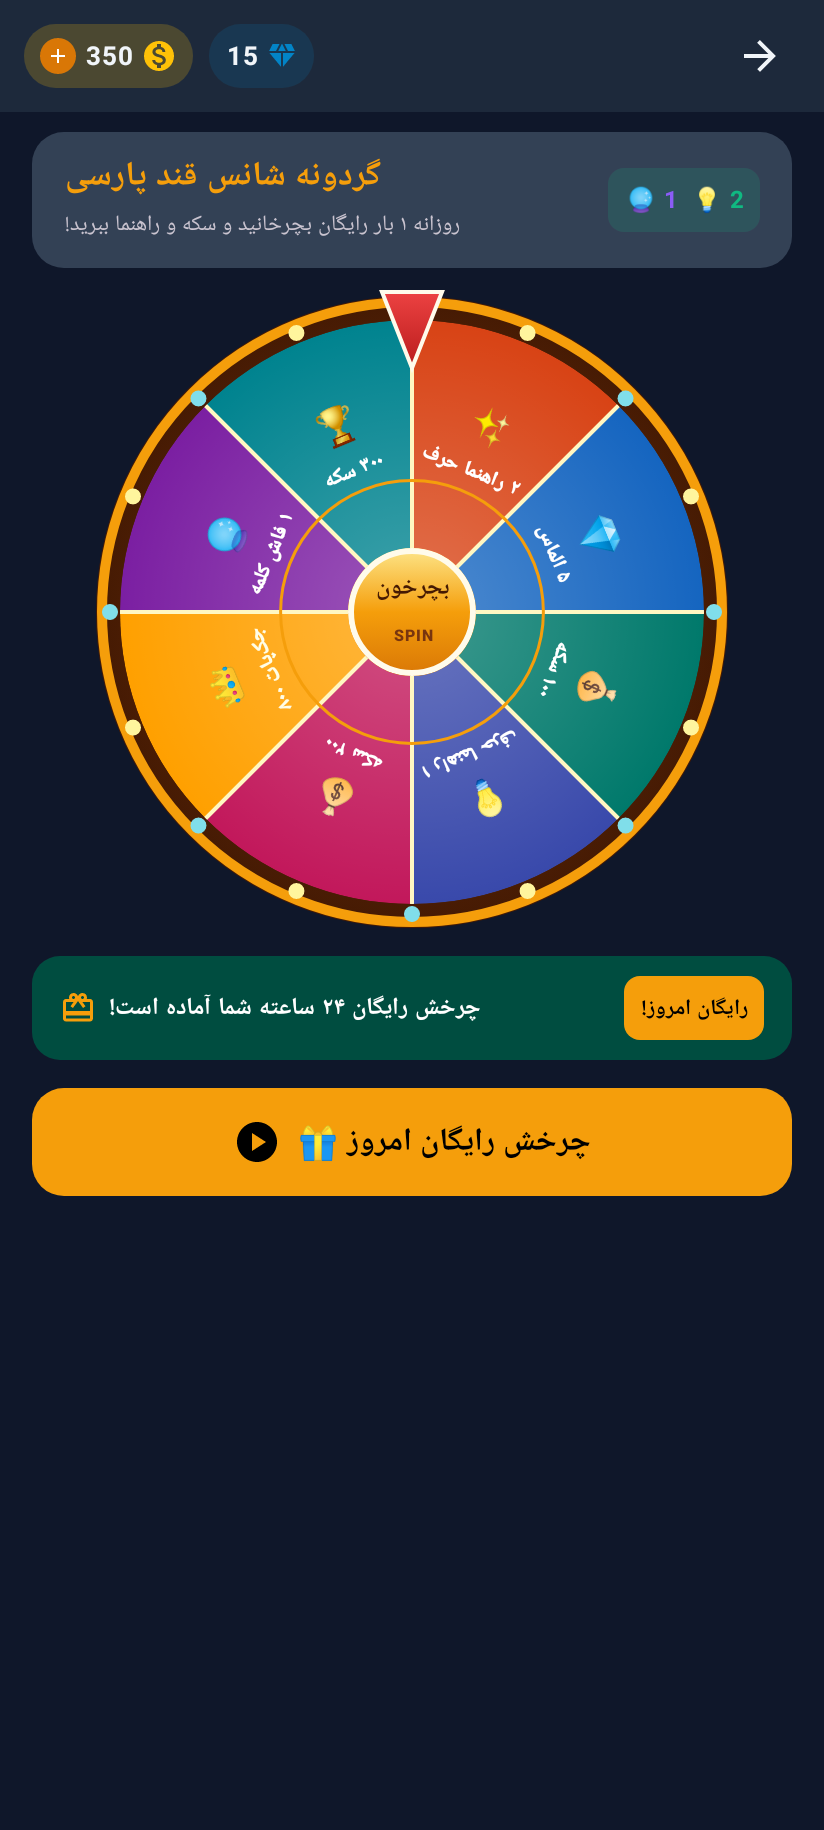
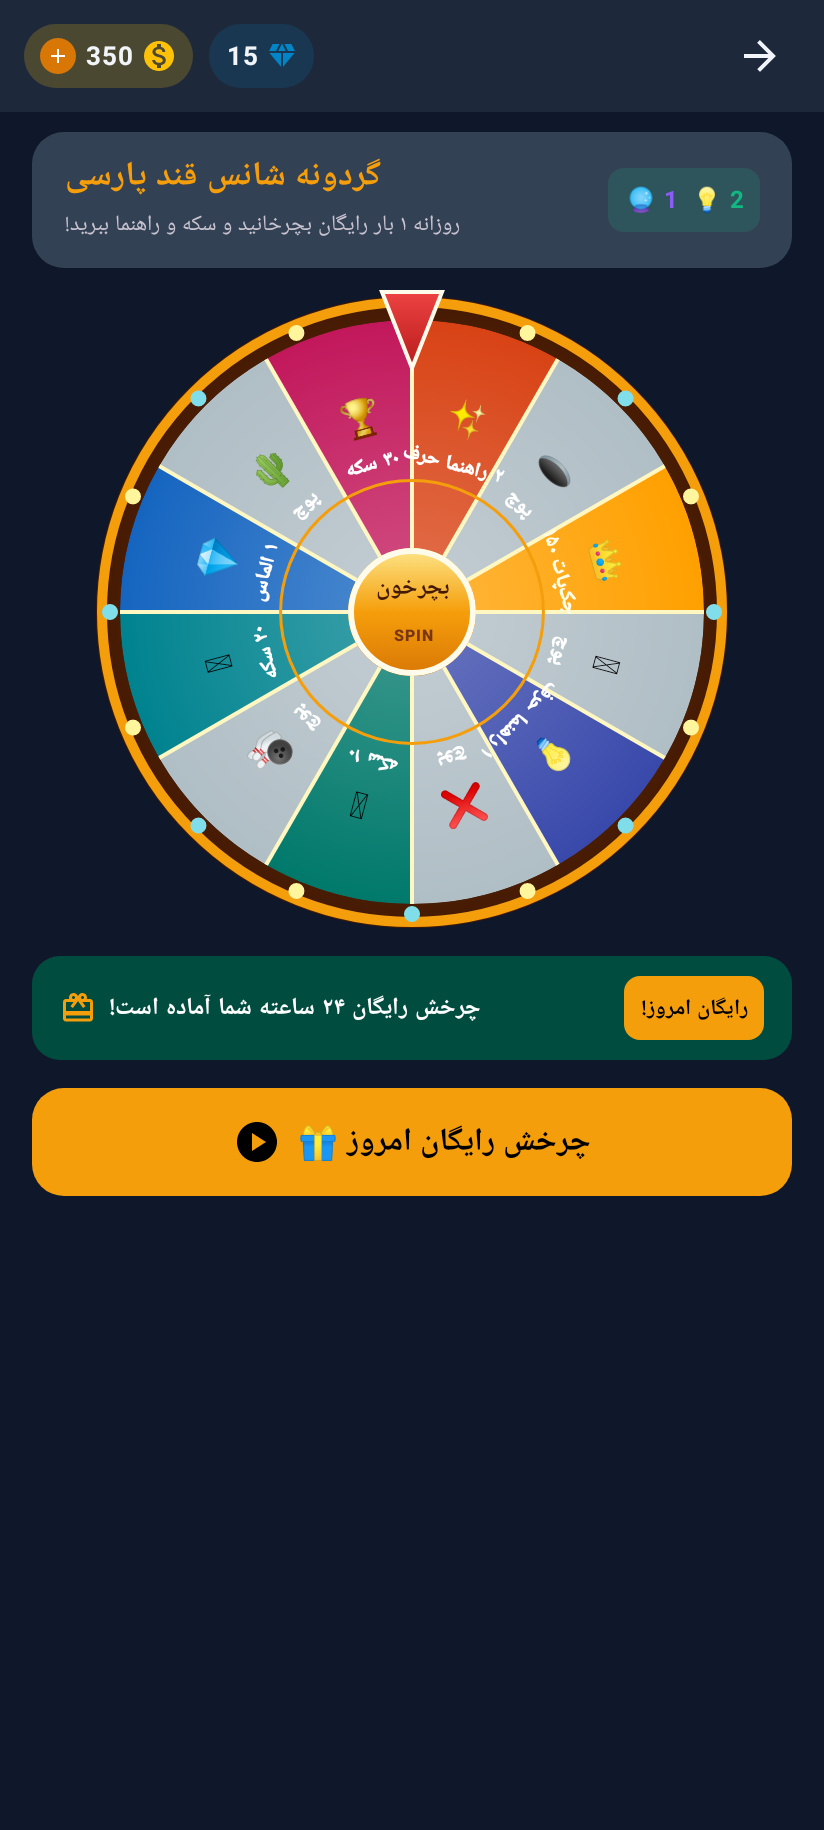
گردونه

Changed region(s): [[0.1214, 0.1557, 0.8799, 0.4984]]

diff --git a/app/src/main/java/com/aistudio/qandparsi/ui/screens/FortuneWheelScreen.kt b/app/src/main/java/com/aistudio/qandparsi/ui/screens/FortuneWheelScreen.kt
@@ -508,52 +508,31 @@ fun FortuneWheelScreen(
                         }
                     }
                 } else {
-                    // Secondary Spin with 50 Coins Button
+                    // After the daily free spin is used, watching a rewarded ad is the main way
+                    // to earn another spin (the unlimited coin-spin has been removed).
                     Button(
-                        onClick = onSpinWheel,
+                        onClick = onWatchAdForFreeSpin,
                         enabled = !isSpinning,
                         modifier = Modifier
                             .fillMaxWidth()
-                            .height(52.dp)
-                            .testTag("spin_wheel_button"),
+                            .height(54.dp)
+                            .testTag("free_spin_ad_btn"),
                         shape = RoundedCornerShape(16.dp),
                         colors = ButtonDefaults.buttonColors(containerColor = PersianTealPrimary)
                     ) {
                         Row(verticalAlignment = Alignment.CenterVertically) {
                             Text(
-                                text = if (isSpinning) "در حال چرخش..." else "چرخش مجدد (۵۰ سکه 🪙)",
+                                text = if (isSpinning) "در حال چرخش گردونه..." else "تماشای ویدیو برای چرخش رایگان 📺",
                                 fontSize = 15.sp,
-                                fontWeight = FontWeight.Bold,
+                                fontWeight = FontWeight.ExtraBold,
                                 color = Color.White
                             )
                             Spacer(modifier = Modifier.width(8.dp))
-                            Icon(imageVector = Icons.Default.PlayCircle, contentDescription = null, tint = Color.White)
+                            Icon(imageVector = Icons.Default.Videocam, contentDescription = null, tint = Color.White)
                         }
                     }
 
-                    // Watch Video for Free Extra Spin Button
-                    OutlinedButton(
-                        onClick = onWatchAdForFreeSpin,
-                        enabled = !isSpinning,
-                        modifier = Modifier
-                            .fillMaxWidth()
-                            .height(48.dp)
-                            .testTag("free_spin_ad_btn"),
-                        shape = RoundedCornerShape(16.dp)
-                    ) {
-                        Row(verticalAlignment = Alignment.CenterVertically) {
-                            Text(
-                                text = "تماشای ویدیو بازار برای چرخش رایگان",
-                                fontSize = 13.sp,
-                                fontWeight = FontWeight.Bold,
-                                color = MaterialTheme.colorScheme.onSurface
-                            )
-                            Spacer(modifier = Modifier.width(6.dp))
-                            Icon(imageVector = Icons.Default.Videocam, contentDescription = null, tint = Color(0xFF00A651))
-                        }
-                    }
-
-                    // Paid extra spin with the premium currency (gems)
+                    // Premium extra spin with the premium currency (gems) — no ad required.
                     OutlinedButton(
                         onClick = onGemSpin,
                         enabled = !isSpinning,
@@ -574,6 +553,14 @@ fun FortuneWheelScreen(
                             Text(text = "💎", fontSize = 14.sp)
                         }
                     }
+
+                    Text(
+                        text = "چرخش روزانه محدود است؛ پس از مصرف آن، فقط با تماشای ویدیو یا الماس میتوانید دوباره بچرخید.",
+                        fontSize = 11.sp,
+                        color = MaterialTheme.colorScheme.onSurfaceVariant,
+                        textAlign = TextAlign.Center,
+                        modifier = Modifier.padding(horizontal = 12.dp)
+                    )
                 }
             }
 
@@ -598,10 +585,24 @@ fun FortuneWheelScreen(
                             .padding(24.dp),
                         horizontalAlignment = Alignment.CenterHorizontally
                     ) {
-                        Text(text = if (lastWonReward.isJackpot) "🎰👑💎" else "${lastWonReward.iconEmoji}🎉✨", fontSize = 44.sp)
+                        val emptyWin = lastWonReward.coins == 0 && lastWonReward.gems == 0 &&
+                            lastWonReward.freeLetterHints == 0 && lastWonReward.freeWordHints == 0
+
+                        Text(
+                            text = when {
+                                lastWonReward.isJackpot -> "🎰👑💎"
+                                emptyWin -> "🫥🕳"
+                                else -> "${lastWonReward.iconEmoji}🎉✨"
+                            },
+                            fontSize = 44.sp
+                        )
                         Spacer(modifier = Modifier.height(10.dp))
                         Text(
-                            text = if (lastWonReward.isJackpot) "جکپات طلایی برنده شدید!" else "تبریک! جایزه شما:",
+                            text = when {
+                                lastWonReward.isJackpot -> "جکپات طلایی برنده شدید!"
+                                emptyWin -> "متأسفانه این بار پوچ بود"
+                                else -> "تبریک! جایزه شما:"
+                            },
                             fontSize = 18.sp,
                             fontWeight = FontWeight.ExtraBold,
                             color = GoldSecondary,
@@ -612,7 +613,8 @@ fun FortuneWheelScreen(
                             text = lastWonReward.labelFa,
                             fontSize = 24.sp,
                             fontWeight = FontWeight.Black,
-                            color = MaterialTheme.colorScheme.onSurface,
+                            color = if (emptyWin) MaterialTheme.colorScheme.onSurfaceVariant
+                            else MaterialTheme.colorScheme.onSurface,
                             textAlign = TextAlign.Center
                         )
 

diff --git a/app/src/main/java/com/aistudio/qandparsi/data/repository/GameRepository.kt b/app/src/main/java/com/aistudio/qandparsi/data/repository/GameRepository.kt
@@ -432,15 +432,17 @@ object GameRepository {
         )
     )
 
-    // 8-Segment Lucky Spin Wheel Rewards (گردونه شانس با جوایز سکه و راهنماهای کاربردی)
+    // 12-Segment Lucky Spin Wheel Rewards. The wheel is intentionally weighted: empty
+    // ("پوچ") and small outcomes dominate, while coins and gems are rare. A normal spin is
+    // only available as the once-per-day free spin or after watching an ad / spending gems.
     val wheelRewards: List<WheelReward> = listOf(
         WheelReward(
             id = 1,
-            labelFa = "۱۰۰ سکه",
-            coins = 100,
-            gems = 0,
-            colorHex = 0xFF00796B,
-            iconEmoji = "💰"
+            labelFa = "پوچ",
+            coins = 0,
+            colorHex = 0xFFB0BEC5,
+            iconEmoji = "🫥",
+            weight = 10
         ),
         WheelReward(
             id = 2,
@@ -449,59 +451,92 @@ object GameRepository {
             gems = 0,
             freeLetterHints = 1,
             colorHex = 0xFF3949AB,
-            iconEmoji = "💡"
+            iconEmoji = "💡",
+            weight = 4
         ),
         WheelReward(
             id = 3,
-            labelFa = "۲۰۰ سکه",
-            coins = 200,
-            gems = 1,
-            colorHex = 0xFFC2185B,
-            iconEmoji = "💰"
+            labelFa = "پوچ",
+            coins = 0,
+            colorHex = 0xFFB0BEC5,
+            iconEmoji = "❌",
+            weight = 10
         ),
         WheelReward(
             id = 4,
-            labelFa = "جکپات ۸۰۰",
-            coins = 800,
-            gems = 5,
-            freeLetterHints = 2,
-            colorHex = 0xFFFFA000,
-            iconEmoji = "👑",
-            isJackpot = true
+            labelFa = "۱۰ سکه",
+            coins = 10,
+            colorHex = 0xFF00796B,
+            iconEmoji = "🪙",
+            weight = 5
         ),
         WheelReward(
             id = 5,
-            labelFa = "۱ فاش کلمه",
+            labelFa = "پوچ",
             coins = 0,
-            gems = 1,
-            freeWordHints = 1,
-            colorHex = 0xFF7B1FA2,
-            iconEmoji = "🔮"
+            colorHex = 0xFFB0BEC5,
+            iconEmoji = "🎳",
+            weight = 10
         ),
         WheelReward(
             id = 6,
-            labelFa = "۳۰۰ سکه",
-            coins = 300,
-            gems = 0,
+            labelFa = "۲۰ سکه",
+            coins = 20,
             colorHex = 0xFF00838F,
-            iconEmoji = "🏆"
+            iconEmoji = "🪙",
+            weight = 4
         ),
         WheelReward(
             id = 7,
-            labelFa = "۲ راهنما حرف",
-            coins = 50,
-            gems = 0,
-            freeLetterHints = 2,
-            colorHex = 0xFFD84315,
-            iconEmoji = "✨"
+            labelFa = "۱ الماس",
+            coins = 0,
+            gems = 1,
+            colorHex = 0xFF1565C0,
+            iconEmoji = "💎",
+            weight = 2
         ),
         WheelReward(
             id = 8,
-            labelFa = "۵ الماس",
+            labelFa = "پوچ",
+            coins = 0,
+            colorHex = 0xFFB0BEC5,
+            iconEmoji = "🌵",
+            weight = 10
+        ),
+        WheelReward(
+            id = 9,
+            labelFa = "۳۰ سکه",
+            coins = 30,
+            colorHex = 0xFFC2185B,
+            iconEmoji = "🏆",
+            weight = 3
+        ),
+        WheelReward(
+            id = 10,
+            labelFa = "۲ راهنما حرف",
+            coins = 0,
+            freeLetterHints = 2,
+            colorHex = 0xFFD84315,
+            iconEmoji = "✨",
+            weight = 2
+        ),
+        WheelReward(
+            id = 11,
+            labelFa = "پوچ",
+            coins = 0,
+            colorHex = 0xFFB0BEC5,
+            iconEmoji = "🕳",
+            weight = 10
+        ),
+        WheelReward(
+            id = 12,
+            labelFa = "جکپات ۱۵۰",
             coins = 150,
-            gems = 5,
-            colorHex = 0xFF1565C0,
-            iconEmoji = "💎"
+            gems = 2,
+            colorHex = 0xFFFFA000,
+            iconEmoji = "👑",
+            isJackpot = true,
+            weight = 1
         )
     )
 

diff --git a/app/src/main/java/com/aistudio/qandparsi/viewmodel/GameViewModel.kt b/app/src/main/java/com/aistudio/qandparsi/viewmodel/GameViewModel.kt
@@ -783,21 +783,15 @@ class GameViewModel(application: Application) : AndroidViewModel(application) {
         checkDailyFreeSpin()
 
         val isDailyFree = _isDailyFreeSpinAvailable.value
-        val cost = when {
-            isDailyFree -> 0
-            isFreeSpinFromAd -> 0
-            else -> GameConfig.WHEEL_SPIN_COST
-        }
 
-        if (cost > 0 && _coins.value < cost) {
+        // A normal spin is only allowed for the once-per-day free spin. Further spins must be
+        // unlocked by watching a rewarded ad (isFreeSpinFromAd = true) or paying gems, so the
+        // wheel can no longer be farmed with coins for unlimited profit.
+        if (!isDailyFree && !isFreeSpinFromAd) {
             soundManager.playSound(SoundType.ERROR)
             soundManager.vibrate(SoundType.ERROR)
-            showToast("برای چرخش گردونه حداقل ۵۰ سکه لازم است، یا میتوانید ویدیوی رایگان ببینید!")
+            showToast("چرخش رایگان امروز مصرف شد. برای چرخش مجدد، ویدیوی تبلیغاتی تماشا کن یا ${GameConfig.EXTRA_SPIN_GEM_COST} الماس خرج کن!")
             return
-        }
-
-        if (cost > 0) {
-            spendCoins(cost)
         }
 
         val now = System.currentTimeMillis()
@@ -811,13 +805,23 @@ class GameViewModel(application: Application) : AndroidViewModel(application) {
         _lastWheelReward.value = null
 
         viewModelScope.launch {
-            val rewardsCount = GameRepository.wheelRewards.size
-            val targetIndex = Random.nextInt(rewardsCount)
+            // Weighted pick: empty slots have high weight, rich rewards are rare.
+            val rewards = GameRepository.wheelRewards
+            val totalWeight = rewards.sumOf { it.weight }
+            var roll = Random.nextInt(totalWeight)
+            var targetIndex = 0
+            for ((i, r) in rewards.withIndex()) {
+                roll -= r.weight
+                if (roll < 0) {
+                    targetIndex = i
+                    break
+                }
+            }
 
             // Exact mathematical angle alignment:
             // Slices start from 0 at 3 o'clock. Pointer needle is at top (270 degrees).
             // Segment k center is at k * segmentAngle + (segmentAngle / 2)
-            val segmentAngle = 360f / rewardsCount
+            val segmentAngle = 360f / rewards.size
             val segmentCenter = targetIndex * segmentAngle + (segmentAngle / 2f)
             val desiredModulo = (270f - segmentCenter + 3600f) % 360f
 
@@ -842,9 +846,19 @@ class GameViewModel(application: Application) : AndroidViewModel(application) {
 
             delay(280) // Let the animation settle smoothly on the slice
 
-            val wonReward = GameRepository.wheelRewards[targetIndex]
+            val wonReward = rewards[targetIndex]
             _lastWheelReward.value = wonReward
             _isSpinning.value = false
+
+            val isEmpty = wonReward.coins == 0 && wonReward.gems == 0 &&
+                wonReward.freeLetterHints == 0 && wonReward.freeWordHints == 0
+
+            if (isEmpty) {
+                soundManager.playSound(SoundType.ERROR)
+                soundManager.vibrate(SoundType.ERROR)
+                showToast("متأسفانه این بار پوچ بود؛ دفعه بعد شانس بهتری داری! 🍀")
+                return@launch
+            }
 
             if (wonReward.coins > 0) addCoins(wonReward.coins)
             if (wonReward.gems > 0) addGems(wonReward.gems)

diff --git a/app/src/test/java/com/aistudio/qandparsi/ExampleRobolectricTest.kt b/app/src/test/java/com/aistudio/qandparsi/ExampleRobolectricTest.kt
@@ -60,7 +60,11 @@ class ExampleRobolectricTest {
     assertTrue(GameRepository.levels.isNotEmpty())
     assertTrue(GameRepository.proverbs.isNotEmpty())
     assertTrue(GameRepository.shopProducts.isNotEmpty())
-    assertEquals(8, GameRepository.wheelRewards.size)
+    assertEquals(12, GameRepository.wheelRewards.size)
+    // The wheel must be weighted toward empty/small outcomes, so the sum of all weights
+    // must exceed the number of segments (i.e. some segments are far more likely).
+    assertTrue(GameRepository.wheelRewards.sumOf { it.weight } > GameRepository.wheelRewards.size)
+    assertTrue(GameRepository.wheelRewards.any { it.coins == 0 && it.gems == 0 && it.freeLetterHints == 0 && it.freeWordHints == 0 })
 
     val firstLevel = GameRepository.levels[0]
     assertEquals(1, firstLevel.stageNumber)

diff --git a/app/src/main/java/com/aistudio/qandparsi/data/model/GameModels.kt b/app/src/main/java/com/aistudio/qandparsi/data/model/GameModels.kt
@@ -86,7 +86,8 @@ data class WheelReward(
     val freeWordHints: Int = 0,
     val colorHex: Long,
     val iconEmoji: String = "🪙",
-    val isJackpot: Boolean = false
+    val isJackpot: Boolean = false,
+    val weight: Int = 1
 )
 data class DailyLoginReward(
     val dayNumber: Int,
